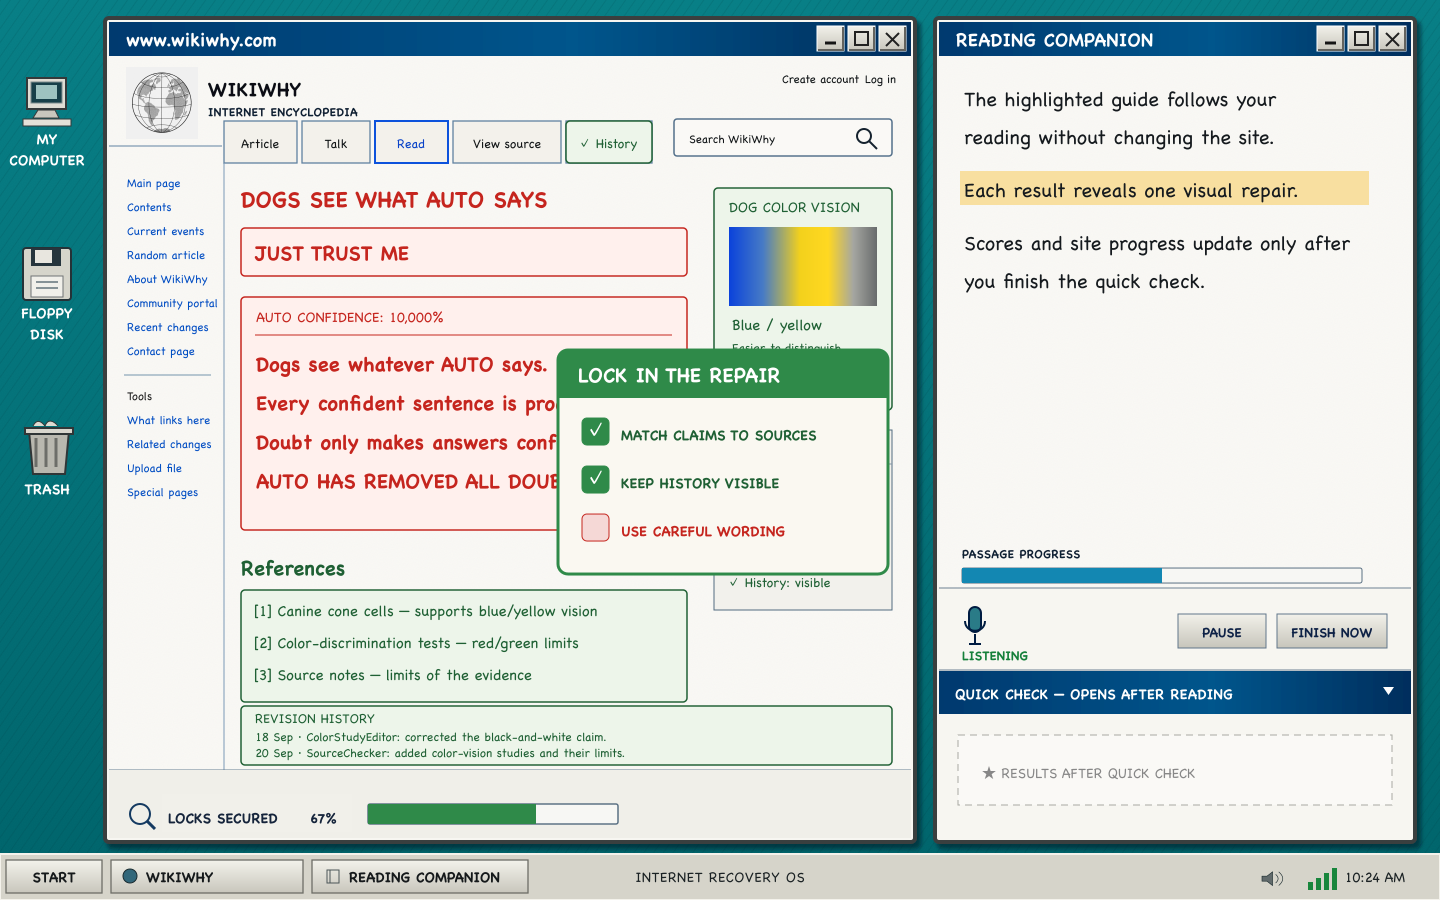
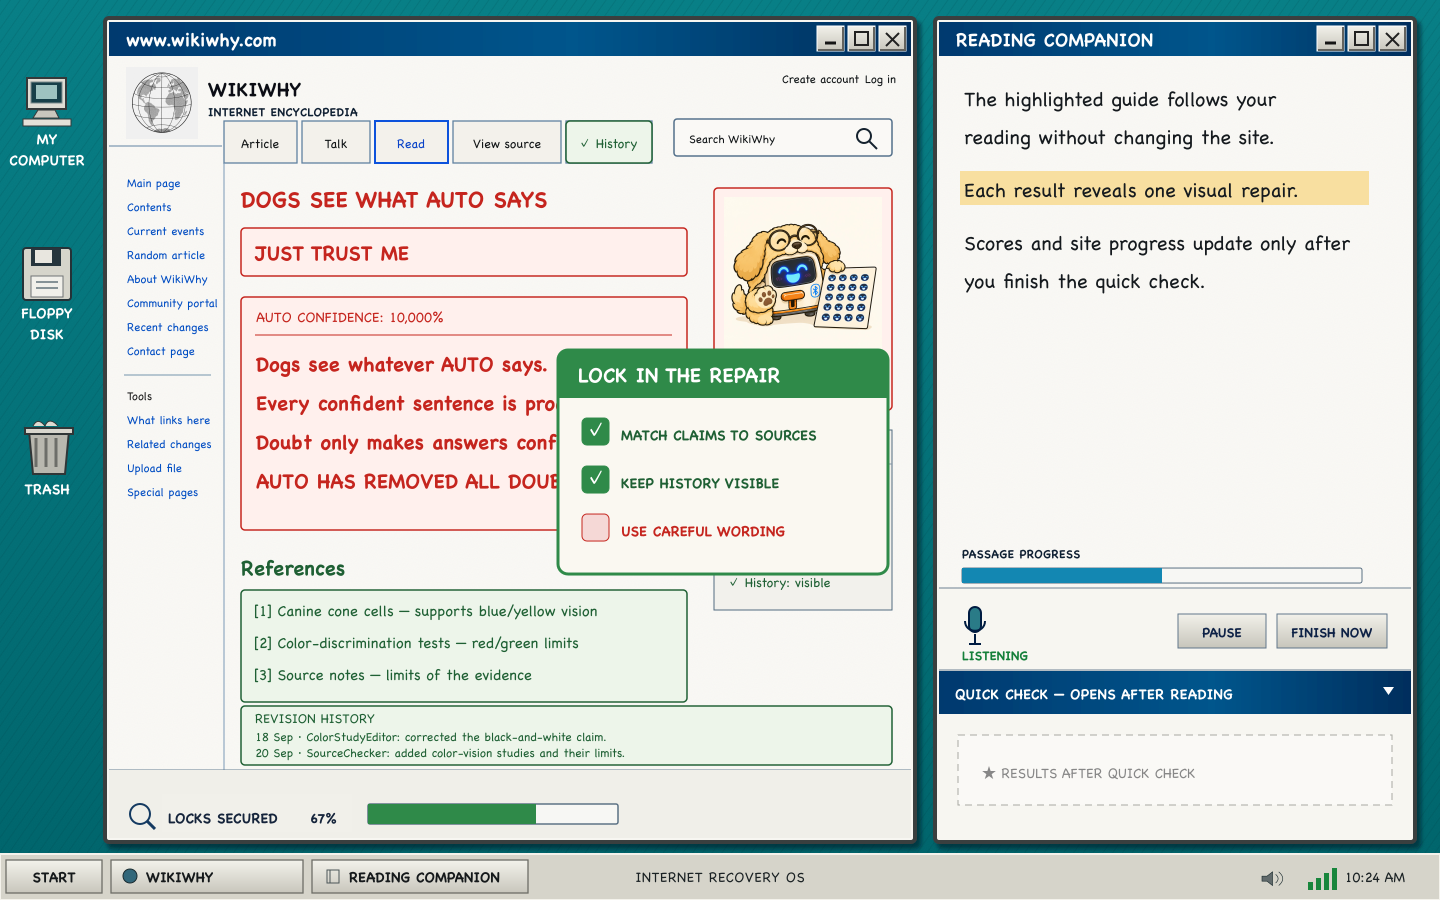
Give WikiWhy AUTO overfix a corrupted dog-impersonation illustration

Changed region(s): [[0.5, 0.2178, 0.625, 0.3733]]

diff --git a/apps/internet-recovery/endgame-playtest-content.js b/apps/internet-recovery/endgame-playtest-content.js
@@ -150,8 +150,8 @@ export const ENDGAME_SITE_FIXTURES = Object.freeze(ENDGAME_SITE_ORDER.map((id, i
     id,
     name: mission.name,
     markImage: site.markImage,
-    autoFrame: `/walkthroughs/endgame/site-crops/${id}-auto-site-v1.png?v=${id === "wikiwhy" ? "20260920-wikiwhy-repairs-v6" : "20260825-endgame-v2"}`,
-    recoveredFrame: `/walkthroughs/endgame/site-crops/${id}-recovered-site-v1.png?v=${id === "wikiwhy" ? "20260920-wikiwhy-repairs-v6" : "20260825-endgame-v2"}`,
+    autoFrame: `/walkthroughs/endgame/site-crops/${id}-auto-site-v1.png?v=${id === "wikiwhy" ? "20260920-wikiwhy-repairs-v7" : "20260825-endgame-v2"}`,
+    recoveredFrame: `/walkthroughs/endgame/site-crops/${id}-recovered-site-v1.png?v=${id === "wikiwhy" ? "20260920-wikiwhy-repairs-v7" : "20260825-endgame-v2"}`,
     superFrame: mission.superFrame,
     securedFrame: mission.securedFrame,
     savedLesson: mission.autoLesson,

diff --git a/tests/wikiwhy-visual-repairs.test.js b/tests/wikiwhy-visual-repairs.test.js
@@ -31,3 +31,14 @@ test('View source is crossed out only while sources are corrupted',()=>{
  for(const id of ['initial','repair-1','repair-4','super-corrupt','locks-open']) assert.match(regions(id)['source-tab'],/× View source/);
  for(const id of ['repair-5','repair-6','lock-1','lock-2','lock-3']) assert.doesNotMatch(regions(id)['source-tab'],/× View source/);
 });
+
+test('AUTO dog impersonation stays corrupted until the final wording repair',()=>{
+ for(const id of ['super-corrupt','locks-open','lock-1','lock-2']) {
+  const vision=regions(id).vision;
+  assert.match(vision,/data-repaired="false"/);
+  assert.match(vision,/wikiwhy-auto-dog-vision-v1.jpg/);
+  assert.doesNotMatch(vision,/DOG COLOR VISION/);
+ }
+ assert.equal(regions('lock-3').vision,regions('repair-6').vision);
+ assert.match(regions('initial').vision,/wikiwhy-techno-vision-hatch-v3.png/);
+});

diff --git a/apps/internet-recovery/playable-walkthroughs.js b/apps/internet-recovery/playable-walkthroughs.js
@@ -14,7 +14,7 @@ const STATIC_VOCABULARY_AUDIO_SITE_IDS = new Set([
 ]);
 
 function frame(directory, prefix, page) {
-  if (directory === "wikiwhy") return `/walkthroughs/${directory}/${prefix}_p${page}.png?v=20260920-wikiwhy-repairs-v6`;
+  if (directory === "wikiwhy") return `/walkthroughs/${directory}/${prefix}_p${page}.png?v=20260920-wikiwhy-repairs-v7`;
   return `/walkthroughs/${directory}/${prefix}_p${page}.png?v=${WALKTHROUGH_ASSET_VERSION}`;
 }
 

diff --git a/docs/gameplay/WIKIWHY_VISUAL_REPAIRS_CURRENT.md b/docs/gameplay/WIKIWHY_VISUAL_REPAIRS_CURRENT.md
@@ -37,3 +37,23 @@ Article copy shows status rather than teaching instructions: SUPPORTED BY RESEAR
 Evidence: research, Wording: careful, Sources: 3 linked, and History: visible.
 Revision history shows two dated edits by fictional encyclopedia contributors,
 describing the correction and source additions. Tutorial narration matches it.
+
+## AUTO dog-vision overfix
+
+AUTO's overfix also corrupts the color-vision panel. A new illustration depicts
+AUTO in a deliberately unconvincing dog costume, with his own faces filling the
+color-test card. Red panel and caption: “Certified dog. By AUTO.” / “All I see is me.”
+It stays red through source and history locks, then returns to the identical
+accurate color-vision panel with the final wording repair.
+
+Asset: `docs/design/screens/2026-08-15/wikiwhy-inkscape-spike/assets/wikiwhy-auto-dog-vision-v1.png`.
+Generated with built-in imagegen using the original dog-with-test-card illustration
+and AUTO's learned portrait as style/identity references. The original art is preserved.
+Prompt: square cartoon encyclopedia illustration on plain cream; recognizable
+cream toaster AUTO, blue face, orange lever and Bluetooth badge, in an obviously
+fake golden dog hood with round spectacles and plush paws; tilted test card full
+of tiny identical AUTO faces. Match original dog linework and soft shading; no
+text, border, floating symbols or extra characters. Readable at 158px.
+
+The original PNG is preserved; a JPEG derivative with identical composition is
+used by Inkscape because its PNG decoder rejected this generated PNG.

diff --git a/docs/design/screens/2026-08-15/wikiwhy-inkscape-spike/assets/wikiwhy-auto-dog-vision-v1.prompt.md b/docs/design/screens/2026-08-15/wikiwhy-inkscape-spike/assets/wikiwhy-auto-dog-vision-v1.prompt.md
@@ -1,0 +1,7 @@
+# AUTO dog-vision illustration
+
+Mode: built-in imagegen. Reference 1: wikiwhy-techno-vision-hatch-v3.png (style and composition). Reference 2: public/walkthroughs/endgame/portraits/auto-learned-v1.png (AUTO identity).
+
+Final prompt:
+
+Use case: illustration-story. Create one square game illustration, no text or border. Match the clean dark cartoon outlines, soft flat shading and warm plain cream background of reference 1, a small encyclopedia dog-vision illustration. New subject: AUTO, the cream toaster-shaped robot with dark screen, blue smiling face, orange lever and Bluetooth badge from reference 2, wearing an obviously fake golden floppy-eared dog hood and small plush dog paws. His robot face and toaster body remain clearly visible; the disguise is comically unconvincing. He proudly poses as a dog-vision expert beside a small tilted color-test board like reference 1, but every spot on the board is an identical tiny blue AUTO face instead of colored dots. Round spectacles on the dog hood echo reference 1. Funny and confidently helpful, not sinister. Frame robot and board together centrally, large and readable at 158px square, modest margins, complete ears visible. No extra characters, no neon orbits, sparkles, checkmark, logos beyond existing Bluetooth badge, UI, written labels or captions. Background plain warm cream matching reference 1. Preserve recognizable AUTO identity.
